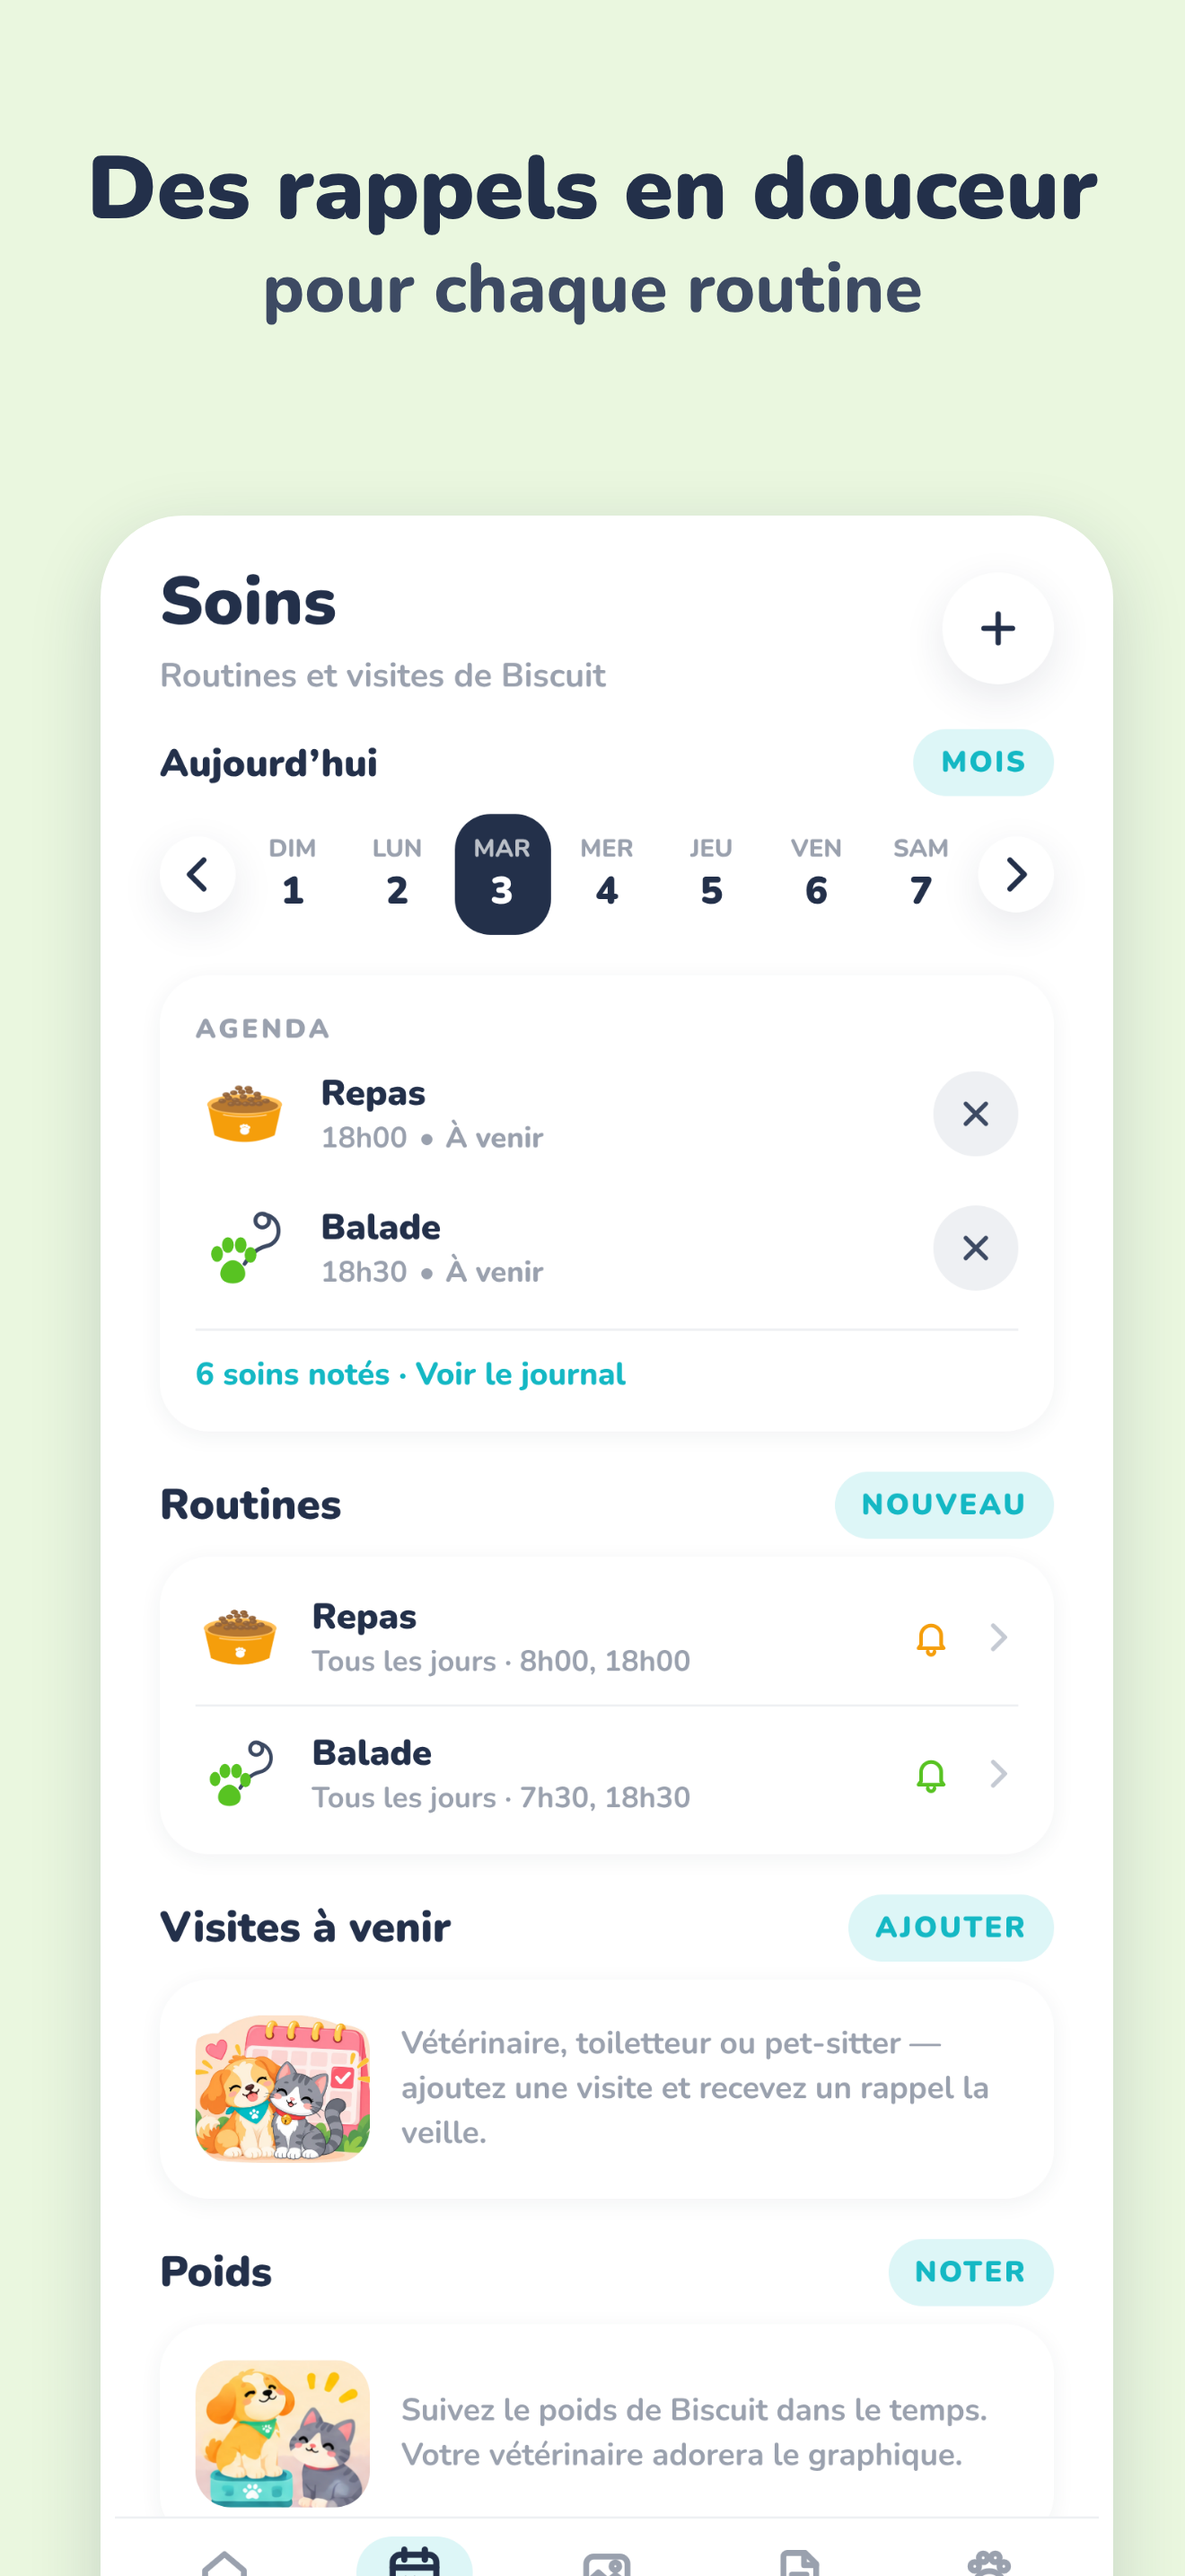
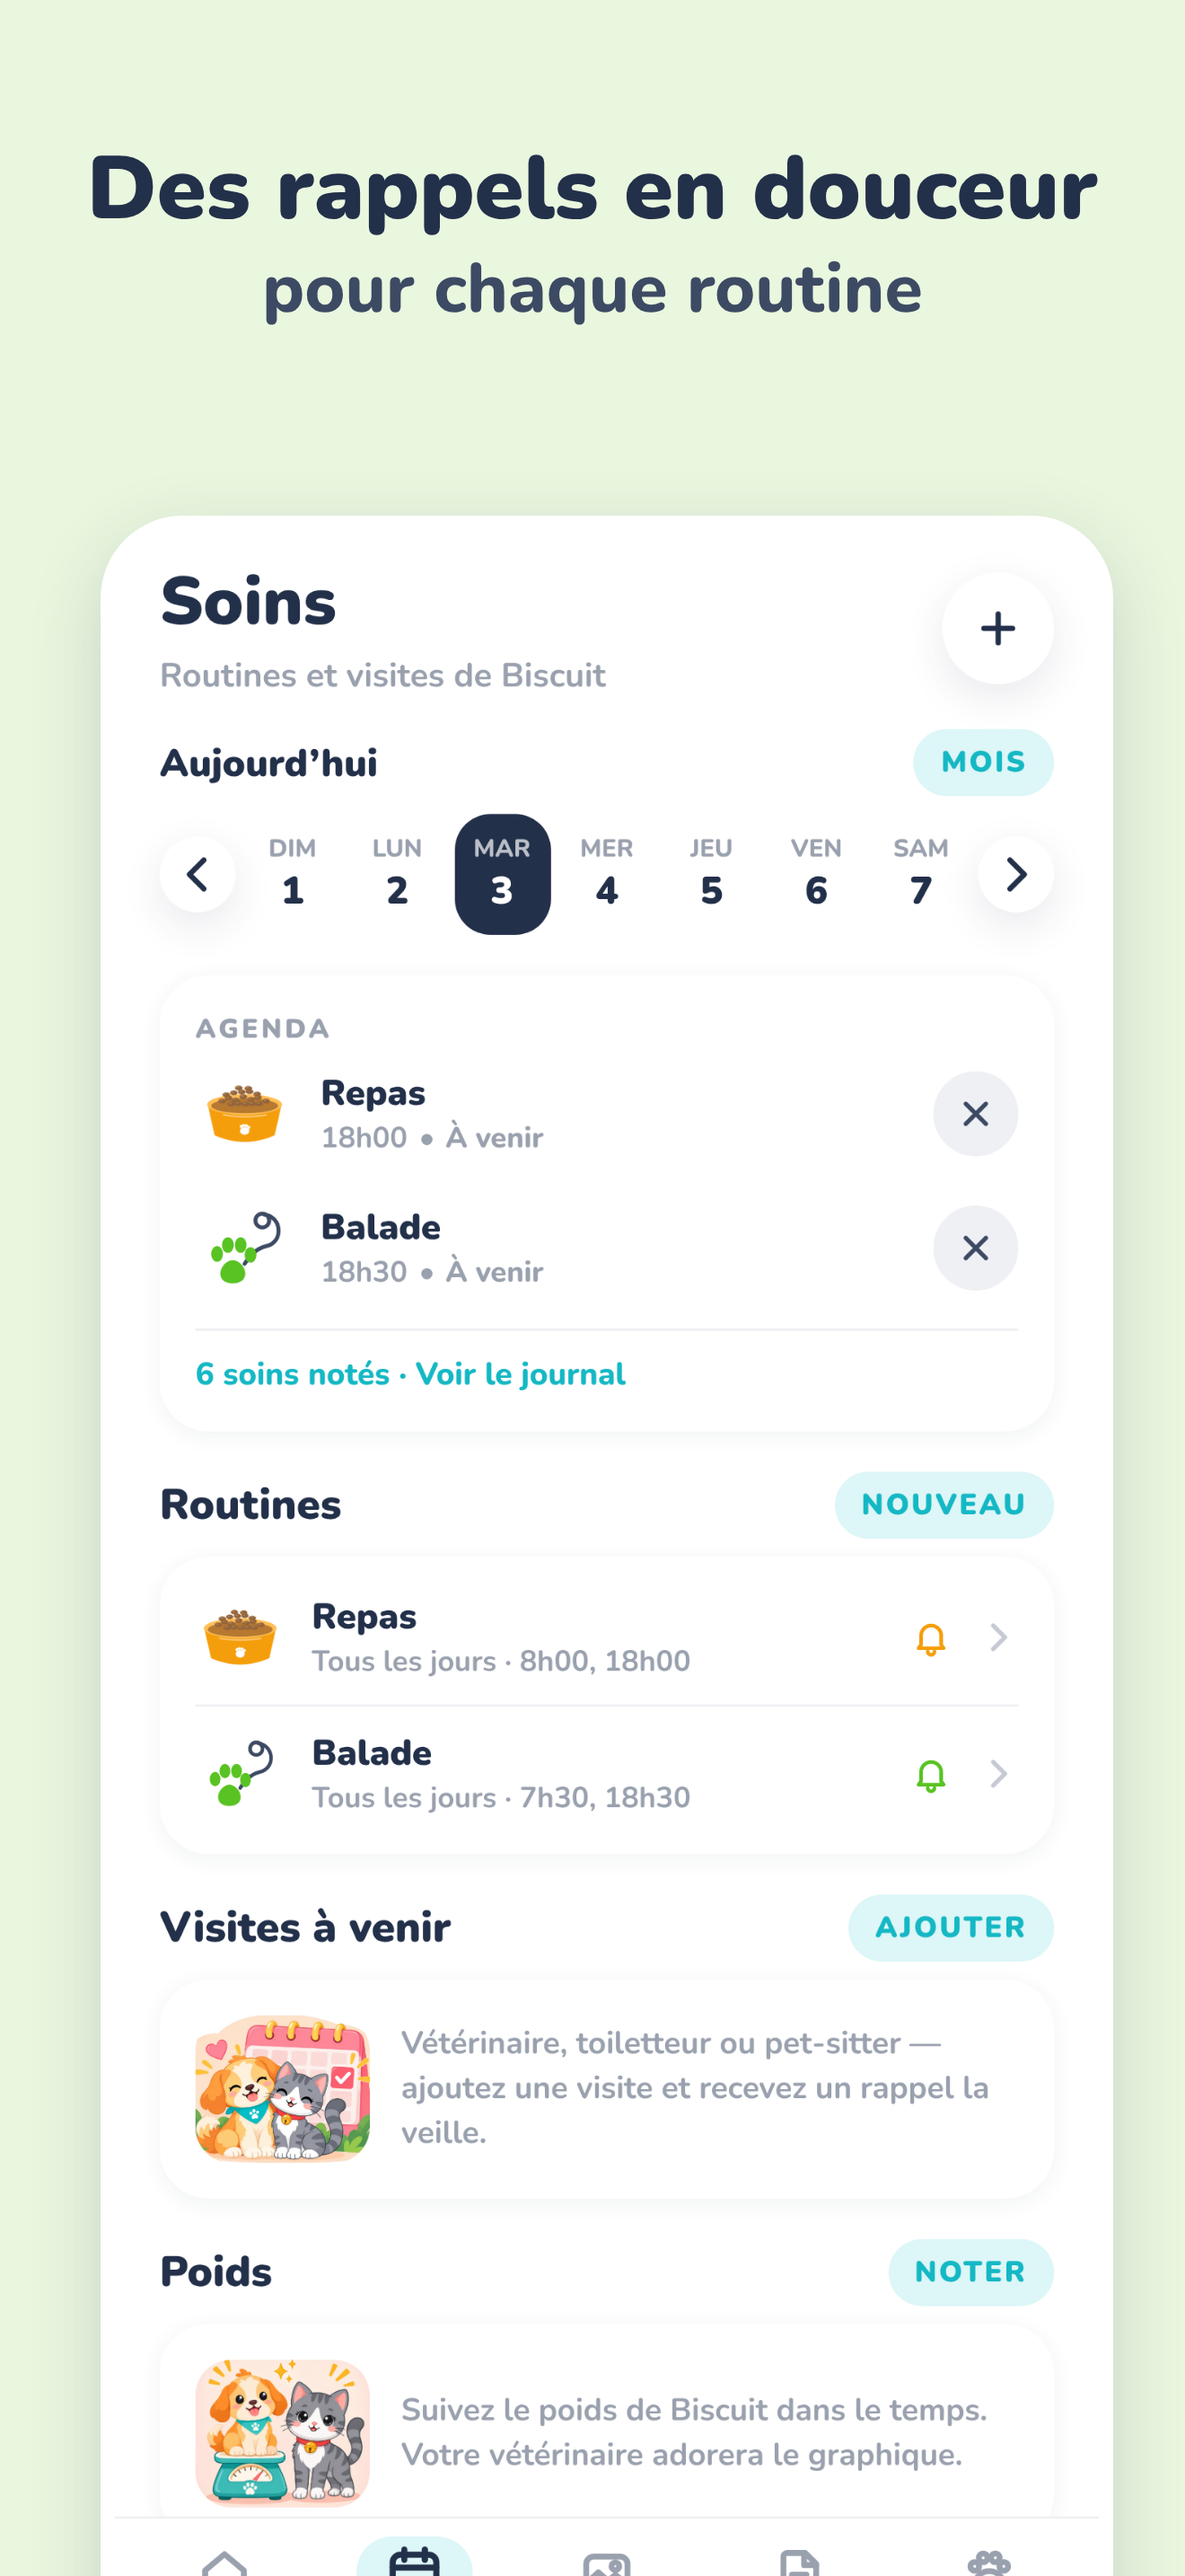
Cat v2: water, weigh, walk scenes and the 4 pet badges from ChatGPT; refreshed store screenshots
Only the records scene still shows the v1 cat.

Claude-Session: https://claude.ai/code/session_01FadyXk4GTkG51z9fMbnELQ

Changed region(s): [[0.1553, 0.8999, 0.3106, 0.993]]

diff --git a/docs/art/CAT_V2_REDRAW.md b/docs/art/CAT_V2_REDRAW.md
@@ -29,3 +29,7 @@ Deliver as before: high-resolution PNG sheets or single images on a PR. Claude r
 - `records`, `water`, `weigh`, `walk` scenes (the concept tiles are cat-only, or Honey wears a red harness with a bell)
 - badges `family`, `moment`, `streak3`, `streak7` (concept tiles have text and other shapes: keep the existing medal design and swap the cat)
 - `vaccine`, `vet`: not shown in the app today; low priority
+
+## Status (31 Oct, night)
+Now also v2 (ChatGPT single images, `docs/art/cat-v2/`): scenes water, weigh, walk; badges family, moment, streak3, streak7.
+**Only `records` is still v1** (Records empty state). vaccine and vet are unused in the app.
